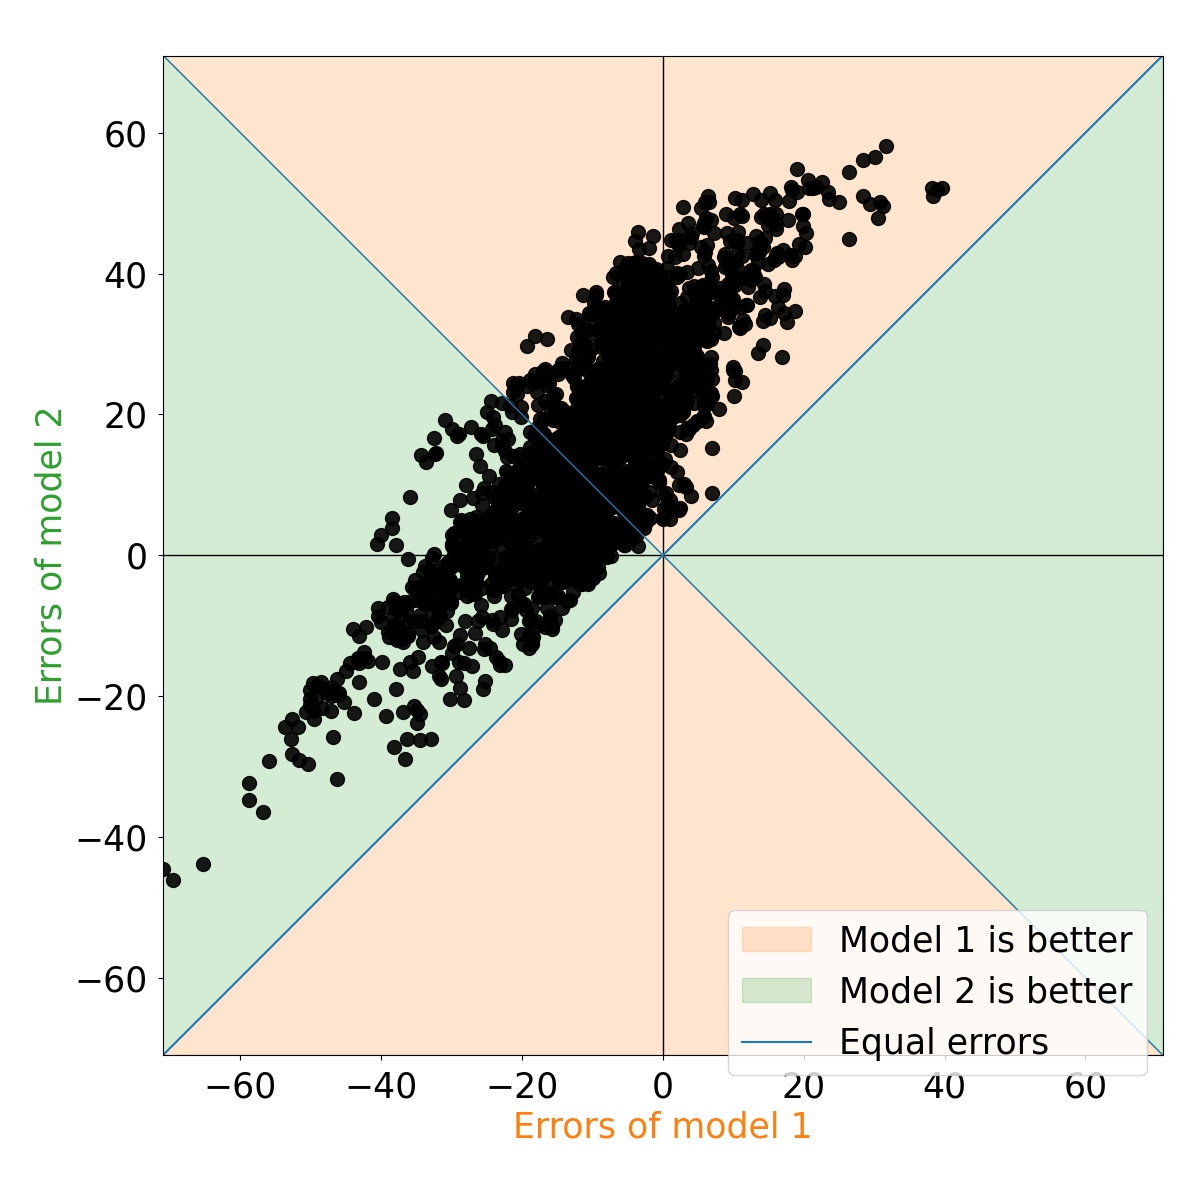
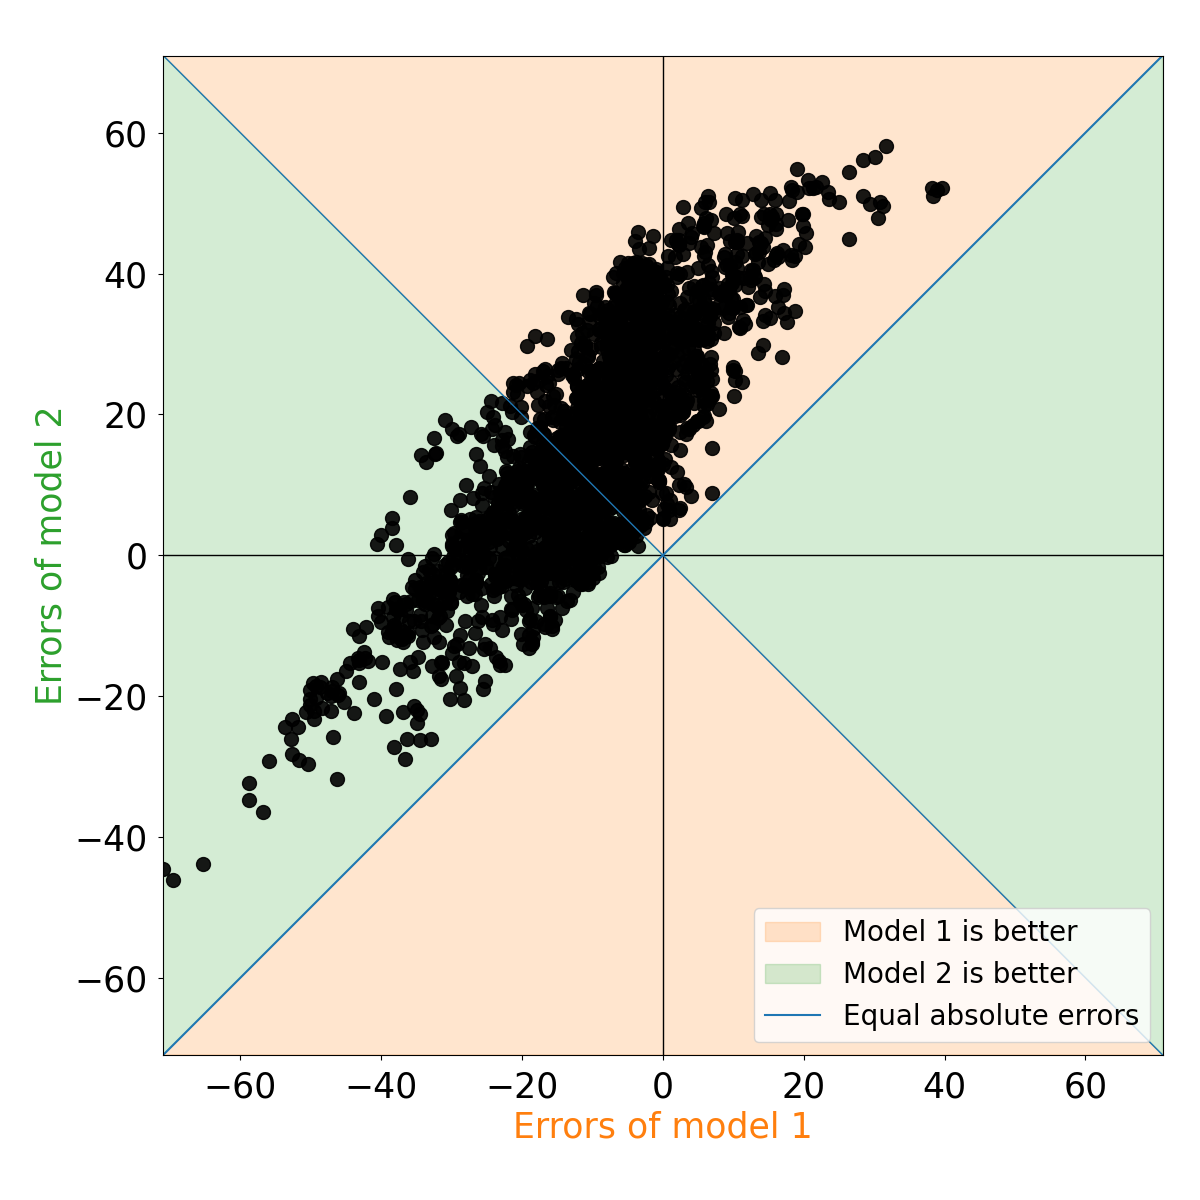
updated readme

Changed region(s): [[0.5858, 0.74, 0.9867, 0.8942]]

diff --git a/utils/visualization.py b/utils/visualization.py
@@ -197,7 +197,7 @@ def plot_errors(data : pd.DataFrame, path : str, file_name = 'errors.png',
         ax.plot([-extrema, extrema], [0, 0], color='black', linewidth=1)
 
         # Diagonals
-        equal_points, = ax.plot([-extrema, extrema], [-extrema, extrema], color='tab:blue', linewidth=1, label='Equal errors')
+        equal_points, = ax.plot([-extrema, extrema], [-extrema, extrema], color='tab:blue', linewidth=1, label='Equal absolute errors')
         ax.plot([-extrema, extrema], [extrema, -extrema], color='tab:blue', linewidth=1)
 
         if show_one_individual:
@@ -216,7 +216,7 @@ def plot_errors(data : pd.DataFrame, path : str, file_name = 'errors.png',
         ax.set_ylabel(f'Errors of model 2')
         
         fig.tight_layout()
-        fig.legend(handles=[equal_points], loc='lower right')
+        fig.legend(handles=[equal_points], loc='lower right', fontsize=18)
         fig.savefig(join(to_save, file_name))
         plt.close()    
 
@@ -249,7 +249,7 @@ def plot_density(data : pd.DataFrame, path : str, file_name = 'density.png', mod
         # Horizontal axis
         ax.plot([-extrema, extrema], [0, 0], color='black', linewidth=1)
         # Diagonal
-        equal_points, = ax.plot([-extrema, extrema], [-extrema, extrema], linewidth=1, label="Equal errors")
+        equal_points, = ax.plot([-extrema, extrema], [-extrema, extrema], linewidth=1, label="Equal absolute errors")
         ax.plot([-extrema, extrema], [extrema, -extrema], color='tab:blue', linewidth=1)
 
         x = data['error_'+combination[0]]
@@ -331,7 +331,7 @@ def plot_errors_vs_density(data : pd.DataFrame, path : str,
 
         ax[1].plot([0, 0], [-extrema, extrema], color='black', linewidth=1)
         ax[1].plot([-extrema, extrema], [0, 0], color='black', linewidth=1)
-        equal_points, = ax[1].plot([-extrema, extrema], [-extrema, extrema], linewidth=1, label="Equal errors")
+        equal_points, = ax[1].plot([-extrema, extrema], [-extrema, extrema], linewidth=1, label="Equal absolute errors")
         ax[1].plot([-extrema, extrema], [extrema, -extrema], color='tab:blue', linewidth=1)
         
         median = (data['error_'+combination[0]].median(), data['error_'+combination[1]].median())
@@ -592,7 +592,7 @@ def plot_hourglass(data : pd.DataFrame, path : str, file_name = 'hourglass.png',
         # Horizontal axis
         ax.plot([-extrema, extrema], [0, 0], color='black', linewidth=1)
         # Diagonal
-        equal_points, = ax.plot([-extrema, extrema], [-extrema, extrema], label="Equal errors")
+        equal_points, = ax.plot([-extrema, extrema], [-extrema, extrema], label="Equal absolute errors")
         ax.plot([-extrema, extrema], [extrema, -extrema], color='tab:blue', linewidth=1)
 
         # Model in abs is better
@@ -618,7 +618,7 @@ def plot_hourglass(data : pd.DataFrame, path : str, file_name = 'hourglass.png',
         ax.yaxis.label.set_color('tab:green')
 
         fig.tight_layout()
-        fig.legend(handles=[abs_better, ord_better, equal_points], loc='lower right', bbox_to_anchor=(0.97, 0.09))
+        fig.legend(handles=[abs_better, ord_better, equal_points], loc='lower right', bbox_to_anchor=(0.97, 0.12), fontsize=20)
         fig.savefig(join(to_save, file_name))
         plt.close()
 
@@ -813,7 +813,7 @@ def plot_with_proximity(
         # Horizontal axis
         ax.plot([-extrema, extrema], [0, 0], color='black', linewidth=1)
         # Diagonal
-        equal_points, = ax.plot([-extrema, extrema], [-extrema, extrema], label="Equal errors")
+        equal_points, = ax.plot([-extrema, extrema], [-extrema, extrema], label="Equal absolute errors")
         ax.plot([-extrema, extrema], [extrema, -extrema], color='tab:blue', linewidth=1)
 
         if with_hourglass:
@@ -900,7 +900,7 @@ def plot_density_proximity(data : pd.DataFrame, path : str, file_name = 'density
         # Horizontal axis
         ax[0].plot([-extrema, extrema], [0, 0], color='black', linewidth=1)
         # Diagonal
-        equal_points, = ax[0].plot([-extrema, extrema], [-extrema, extrema], label="Equal errors")
+        equal_points, = ax[0].plot([-extrema, extrema], [-extrema, extrema], label="Equal absolute errors")
         ax[0].plot([-extrema, extrema], [extrema, -extrema], color='tab:blue', linewidth=1)
 
         if with_hourglass:
@@ -936,7 +936,7 @@ def plot_density_proximity(data : pd.DataFrame, path : str, file_name = 'density
         # Horizontal axis
         ax[1].plot([-extrema, extrema], [0, 0], color='black', linewidth=1)
         # Diagonal
-        equal_points, = ax[1].plot([-extrema, extrema], [-extrema, extrema], label="Equal errors")
+        equal_points, = ax[1].plot([-extrema, extrema], [-extrema, extrema], label="Equal absolute errors")
         ax[1].plot([-extrema, extrema], [extrema, -extrema], color='tab:blue', linewidth=1)
 
         # Calculate distance to the median
@@ -1007,7 +1007,7 @@ def plot_compared_proximity(
             # Horizontal axis
             axis.plot([-extrema, extrema], [0, 0], color='black', linewidth=1)
             # Diagonal
-            equal_points, = axis.plot([-extrema, extrema], [-extrema, extrema], label="Equal errors")
+            equal_points, = axis.plot([-extrema, extrema], [-extrema, extrema], label="Equal absolute errors")
             axis.plot([-extrema, extrema], [extrema, -extrema], color='tab:blue', linewidth=1)
 
             if with_hourglass:
@@ -1094,7 +1094,7 @@ def plot_everything(data : pd.DataFrame, path : str, file_name = 'general_plot.p
         # Horizontal axis
         ax.plot([-extrema, extrema], [0, 0], color='black', linewidth=1)
         # Diagonals
-        equal_points, = ax.plot([-extrema, extrema], [-extrema, extrema], label="Equal errors")
+        equal_points, = ax.plot([-extrema, extrema], [-extrema, extrema], label="Equal absolute errors")
         ax.plot([-extrema, extrema], [extrema, -extrema], color='tab:blue', linewidth=1)
 
         # Model in abs is better

diff --git a/README.md b/README.md
@@ -1,6 +1,6 @@
-# reg-visualization-tools
+# reg-visualization
 
-Visualization Tools for Comparative Analysis of Regression Models
+A Visualization for Comparative Analysis of Regression Models
 
 ## Installation
 
@@ -40,3 +40,81 @@ The script train.py can be used to train them:
 ```bash
 python train.py --data <dataset> --target <target>
 ```
+
+## Datasets and architectures
+
+Table **1** describes the datasets used in our experiments, and Table **2** describes the architectures used for training for each dataset. As Datasets C to E are synthetically generated, the process to create them and their implementation are described in the repository below.
+
+Equations (1), (2), and (3) define the custom loss functions used for C-MAPSS models.
+
+---
+
+### Table 1: Description of the datasets used
+
+| **No** | **Dataset**   | **Description**                                      | **Target**   |
+| ------ | ------------- | ---------------------------------------------------- | ------------ |
+| A      | C-MAPSS   | Turbofan degradation                                 | RUL          |
+| B      | Synthetic 1   | Moderate errors vs Extreme errors                    | Dummy Target |
+| C      | Synthetic 2   | Under and over estimations                           | Dummy Target |
+| D      | Synthetic 3   | Similar errors but on different individuals          | Target       |
+| E      | Apartment | Evolution of the price of apartments for rent in USA | Price        |
+
+---
+
+### Table 2: Description of the architectures used
+
+| **No** | **Model**     | **Criteria**       | **Dataset** |
+| ------ | ------------- | ------------------ | ----------- |
+| 1      | LSTM          | Squared Error      | C-MAPSS     |
+| 2      | LSTM          | Absolute Error     | C-MAPSS     |
+| 3      | LSTM          | LIN-SE 3           | C-MAPSS     |
+| 4      | LSTM          | LIN-SE 4           | C-MAPSS     |
+| 5      | LSTM          | LIN-SE 5           | C-MAPSS     |
+| 6      | LSTM          | LIN-SE 6           | C-MAPSS     |
+| 7      | LSTM          | LIN-LIN 0.01 - 1.0 | C-MAPSS     |
+| 8      | LSTM          | LIN-LIN 0.05 - 1.0 | C-MAPSS     |
+| 9      | LSTM          | LIN-LIN 0.2 - 1.0  | C-MAPSS     |
+| 10     | LSTM          | LIN-LIN 0.3 - 1.0  | C-MAPSS     |
+| 11     | LSTM          | QUAD-QUAD 0.01     | C-MAPSS     |
+| 12     | LSTM          | QUAD-QUAD 0.03     | C-MAPSS     |
+| 13     | LSTM          | QUAD-QUAD 0.05     | C-MAPSS     |
+| 14     | LSTM          | QUAD-QUAD 0.07     | C-MAPSS     |
+| 15     | LSTM          | QUAD-QUAD 0.1      | C-MAPSS     |
+| 16     | Decision Tree | Squared Error      | Apartment   |
+| 17     | XGBoost   | Squared Error      | Apartment   |
+
+---
+
+### Custom Loss Functions
+
+Let $\hat{y}_i$ be the predicted value, $y_i$ the actual value, and $r = \hat{y}_i - y_i$.
+
+1. **LIN-SE**:
+
+$$
+\text{LIN-SE}(a) = \frac{1}{N} \sum_{i=1}^N
+\begin{cases}
+-a(\hat{y}_i - y_i), & \text{if } r < 0 \\
+(\hat{y}_i - y_i)^2, & \text{otherwise}
+\end{cases}
+$$
+
+2. **LIN-LIN**:
+
+$$
+\text{LIN-LIN}(a, b) = \frac{1}{N} \sum_{i=1}^N
+\begin{cases}
+-a(\hat{y}_i - y_i), & \text{if } r < 0 \\
+b(\hat{y}_i - y_i), & \text{otherwise}
+\end{cases}
+$$
+
+3. **QUAD-QUAD**:
+
+$$
+\text{QUAD-QUAD}(a) = \frac{1}{N} \sum_{i=1}^N
+\begin{cases}
+2a(\hat{y}_i - y_i)^2, & \text{if } r < 0 \\
+2(-a + 1)(\hat{y}_i - y_i), & \text{otherwise}
+\end{cases}
+$$
